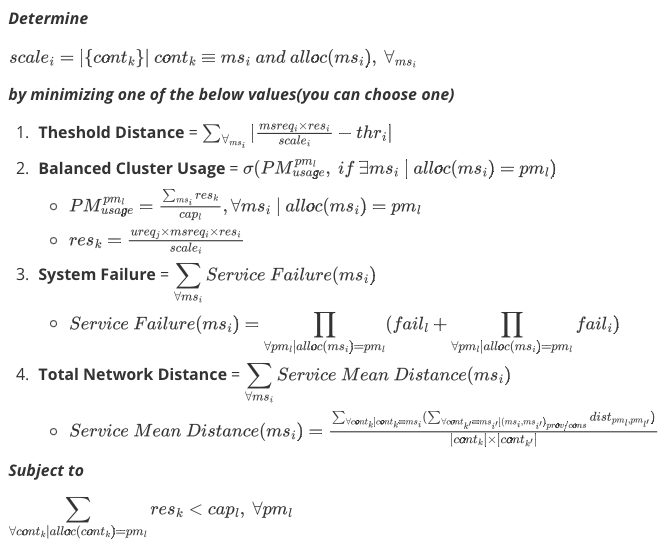
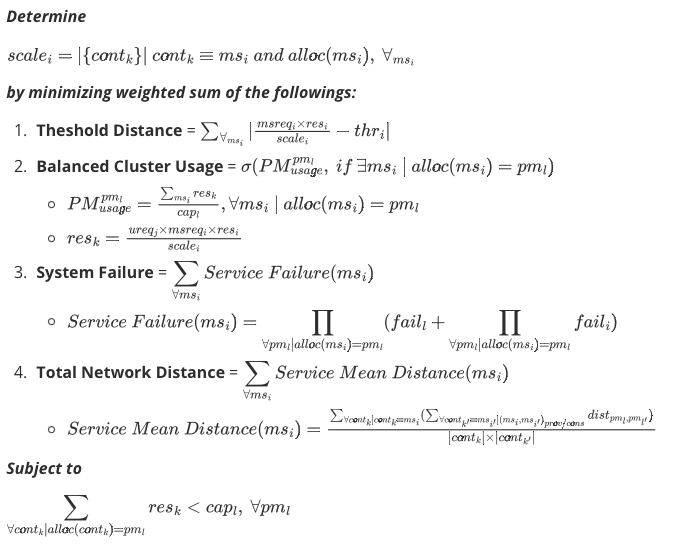
update fitness function using weighted sum

diff --git a/component.py b/component.py
@@ -3,7 +3,7 @@ from mutation import Mutation
 from config import *
 import random as rd
 from copy import deepcopy
-from fitness import (threshold_distance, total_network_distance, system_failure, balanced_cluster_use)
+from fitness import (threshold_distance, total_network_distance, system_failure, balanced_cluster_use, weighted_sum)
 
 
 class Application:
@@ -107,7 +107,7 @@ class Individual:
     THR_FITNESS: float
     MUTATION: Mutation
 
-    def __init__(self, mul_obj= False, fn='scale', derived=False):
+    def __init__(self, mul_obj= True, fn='scale', derived=False):
         self._initialize_class(mul_obj, fn)
         self.app = deepcopy(self.APP)
         self.pm = deepcopy(self.PM)
@@ -119,7 +119,7 @@ class Individual:
             self._allocate_cont()
 
     @classmethod
-    def _initialize_class(cls, mul_obj= False, fn='scale'):
+    def _initialize_class(cls, mul_obj= True, fn='scale'):
         if cls.INITIALIZE_CLASS == False:
             cls.INITIALIZE_CLASS = True
             cls.APP = Application()
@@ -132,18 +132,19 @@ class Individual:
             if not mul_obj:
                 if fn == 'scale':
                     cls.FUNC_FITNESS = threshold_distance
-                    cls.THR_FITNESS = Config.THR_SCALABILITY
+                    #cls.THR_FITNESS = Config.THR_WOKRLOAD
                 elif fn == 'balance':
                     cls.FUNC_FITNESS = balanced_cluster_use
-                    cls.THR_FITNESS = Config.THR_BALANCE
+                    #cls.THR_FITNESS = Config.THR_BALANCE
                 elif fn == 'failure':
                     cls.FUNC_FITNESS = system_failure
-                    cls.THR_FITNESS = Config.THR_FAILURE
+                    #cls.THR_FITNESS = Config.THR_FAILURE
                 elif fn == 'network':
                     cls.FUNC_FITNESS = total_network_distance
-                    cls.THR_FITNESS = Config.THR_NETWORK
+                    #cls.THR_FITNESS = Config.THR_NETWORK
             else:
-                raise NotImplementedError('Not Implemented yet.')
+                cls.FUNC_FITNESS = weighted_sum
+                #cls.THR_FITNESS = Config.THR_FITNESS
 
     def offstring_update(self, ms):
         self.ms: List[MicroService] = [ MicroService(id=i, scale=len(ms[i])) for i in range(SocksShopConfig.MS_MAX_LEN) ]

diff --git a/app.py b/app.py
@@ -7,6 +7,8 @@ import copy
 import time
 import argparse
 import random as rd
+
+import pickle as pkl
     
 def main():
     #GMT = datetime.timezone(datetime.timedelta(hours=9))
@@ -18,13 +20,14 @@ def main():
     pop = [ Individual(fn=args.fitness) for _ in range(Config.SIZE_POPULATION) ]
     best_so_far = sys.maxsize
     initial = True
-    
+
     while True:
         improved = False
         num_gen += 1
         scores = []
         d_scores = {}
-        
+
+       
         # Part1: Generate the fitness values
         for i in range(Config.SIZE_POPULATION):
             score = Individual.FUNC_FITNESS(pop[i])
@@ -34,7 +37,7 @@ def main():
             if best_so_far > score:
                 improved = True
                 best_so_far = score
-        
+
         if improved or initial:
             initial = False
             time_diff = time.time() - start
@@ -45,7 +48,7 @@ def main():
             print('='*50)
 
         # Stopping criteria
-        if best_so_far <= Individual.THR_FITNESS or num_gen > Config.MAX_GENERATION:
+        if num_gen > Config.MAX_GENERATION:
                 print('Finished')
                 break
 
@@ -115,7 +118,7 @@ def main():
 if __name__ == '__main__':
     parser = argparse.ArgumentParser()
     parser.add_argument('--debug', action='store_true')
-    parser.add_argument('--fitness', default='scale', help='It must be one of the ["scale", "balance", "failure", "network"]. The default is `scale`')
+    parser.add_argument('--fitness', help='It must be one of the ["scale", "balance", "failure", "network"].')
     args = parser.parse_args()
 
     main()

diff --git a/config.py b/config.py
@@ -19,10 +19,15 @@ class Config:
     PROB_MUTATION_SELECTION: float = 1/3
     PROB_CROSSOVER : float = 1.0
 
-    THR_SCALABILITY: float = 0.1
-    THR_BALANCE: float = 0.001
-    THR_FAILURE: float = 1e-20
-    THR_NETWORK: float = 0.1
+    #WEIGHT_WORKFLOAD: float = 1.0700126186173278
+    #WEIGHT_BALANCE: float = 3829.076062191863
+    #WEIGHT_FAILURE: float = 1708.8470872135106
+    #WEIGHT_NETWORK: float = 15.48341559969746
+
+    WEIGHT_WORKFLOAD: float = 0.35
+    WEIGHT_BALANCE: float = 0.15
+    WEIGHT_FAILURE: float = 0.25
+    WEIGHT_NETWORK: float = 0.25
 
     MAX_GENERATION: int = 300
 

diff --git a/fitness.py b/fitness.py
@@ -57,3 +57,11 @@ def total_network_distance(ind: 'Individual'):
     for i in range(SocksShopConfig.MS_MAX_LEN):
         tot_net_dist += _service_mean_distance(ind, i)
     return tot_net_dist    
+
+def weighted_sum(ind: 'Individual'):
+    workload = Config.WEIGHT_WORKFLOAD * threshold_distance(ind)
+    balance = Config.WEIGHT_BALANCE * balanced_cluster_use(ind)
+    failure = Config.WEIGHT_FAILURE * system_failure(ind)
+    network = Config.WEIGHT_NETWORK * total_network_distance(ind)
+
+    return workload + balance + failure + network

diff --git a/README.md b/README.md
@@ -96,17 +96,25 @@ The application-specific parameters are metrics for each micro-services. In this
 
 This algorithm will stop whether when the best-so-far is smaller than a given threshold or the step of algorithm exceeds the given `MAX_GENERATION`. The default configurations are below.
 
-* THR_SCALABILITY = 0.1
-* THR_BALANCE = 0.001
-* THR_FAILURE = 1e-20
-* THR_NETWORK = 0.1
 * MAX_GENERATION = 300
 
 
 ### 3. Fitness function.
 
+***Weighted Sum*** of the following fitness values:
+* Thresholod Distance
+* Balanced Cluster Usage
+* System Failure
+* Total Network Distance
+
+The weight is following
+* WEIGHT_WORKFLOAD: float = 0.35
+* WEIGHT_BALANCE: float = 0.15
+* WEIGHT_FAILURE: float = 0.25
+* WEIGHT_NETWORK: float = 0.25
+
 *It's represented as an image due to unsupporting inline latex in Github. You can check the original text in `backup/README.md.bk` directory and get more clear image when you left-click this image.*
-![Optimisation-Objective](./resources/image/fitness.png)
+##### ![Fitness Function](./resources/image/fitness.png)
 
 ### 4. Selection operator.
 

diff --git a/backup/README.md b/backup/README.md
@@ -125,7 +125,7 @@ The fitness values is the total cost for allocating the micro-services and conta
 
 $scale_i = |\{cont_k\}|\ cont_k \equiv ms_i\ and\ alloc(ms_i),\ \forall_{ms_i} $ 
 
-***by minimizing one of the below values(you can choose one)***
+***by minimizing weighted sum of the followings:***
 
 1. **Theshold Distance** = $\sum_{\forall_{ms_i}}|\frac{msreq_i\times res_i}{scale_i} - thr_i|$
 2. **Balanced Cluster Usage** = $\sigma(PM_{usage}^{pm_l},\ if\ \exists ms_i\ |\ alloc(ms_i) = pm_l)$
@@ -147,7 +147,7 @@ $\displaystyle\sum_{\forall{cont_k}|alloc(cont_k)=pm_l}res_k<cap_l, \ \forall pm
 
 `Tournament Selection`.
 
-### 5. Crossover operator.
+##### 5. Crossover operator.
 
 The crossover operator is quite simple method, `single-point crossover` operator. Parent can make two children at given single index.
 
